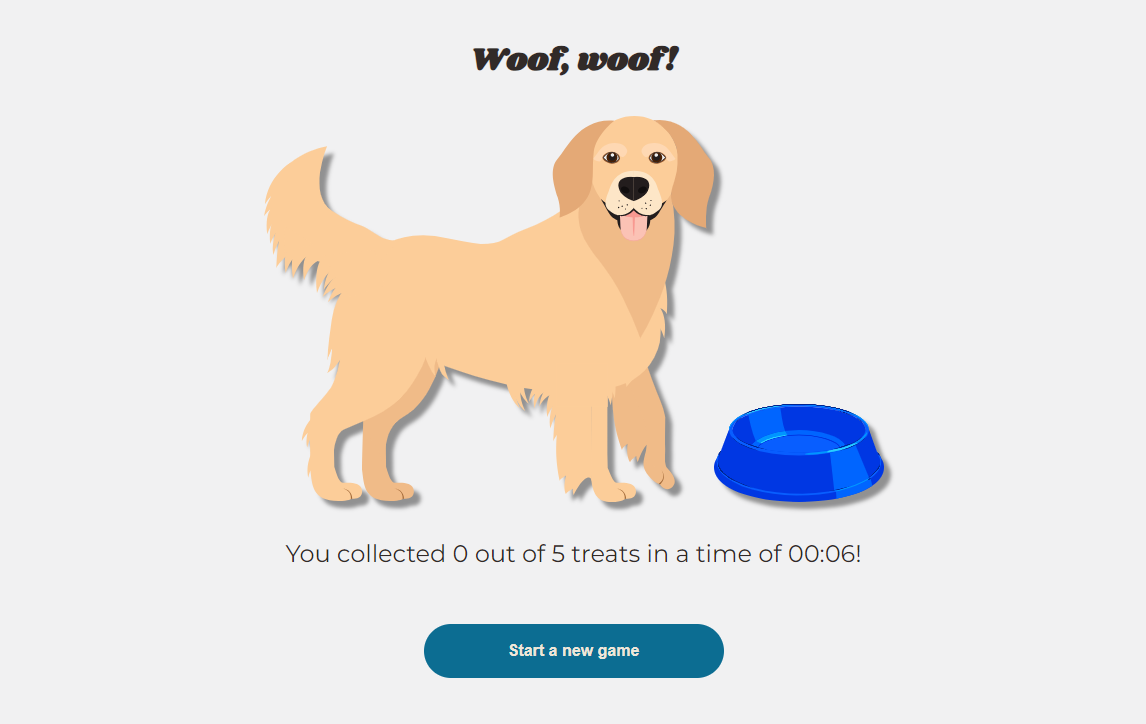
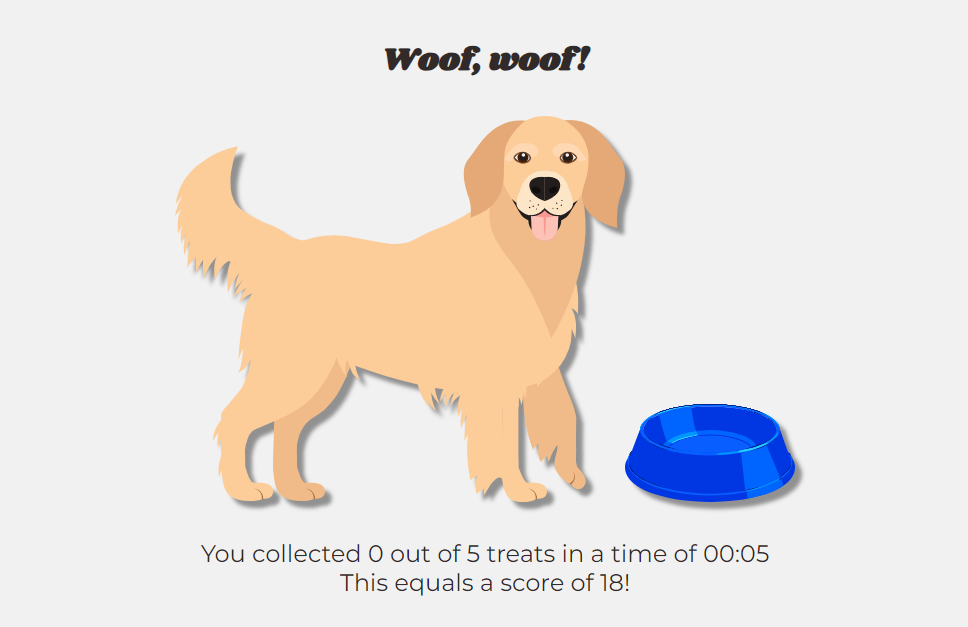
doc: update congratulations modal section in readme

Changed region(s): [[0.186, 0.1515, 0.8368, 0.8182], [0.2169, 0.8485, 0.8058, 0.9394], [0.4029, 0.0606, 0.6198, 0.1212]]

diff --git a/README.md b/README.md
@@ -130,13 +130,13 @@ One of the goals of this game is to make it customizable. That is why the user h
 
 ![Desktop start game modal](docs/screenshots/start_game_desktop.png)
 
-The mazes for bigger-sized screens are horizontal. However, for the mobile version of this game, I added a vertical maze to make better use of the available screen. When the screen size is smaller than 600px, only the mobile option is selectable.
+The mazes for bigger-sized screens are horizontal. However, for the mobile version of this game, I added a vertical maze to make better use of the available screen size. When the screen size is smaller than 600px, only the mobile option is selectable.
 
 ![Mobile start game modal](docs/screenshots/start_game_mobile.png)
 
 ### **Maze**
 
-After looking at different ways of creating a maze in JavaScript, I decided to use the [Playable Maze Game Generator](https://www.the-art-of-web.com/javascript/playable-maze-generator/) as my main resource. I had a look at how to implement a randomly generated maze from many different resources. But this seemed like the best option to me and I liked being able to just use the *MazeBuilder* class to build my maze and carry on doing the other things myself. So I used the *maze-builder.js* file and adapted it to the needs of my maze. There were many functions in the tutorial that I did not need so I deleted them.
+After looking at different ways of creating a maze in JavaScript, I decided to use the [Playable Maze Game Generator](https://www.the-art-of-web.com/javascript/playable-maze-generator/) as my main resource. I had a look at how to implement a randomly generated maze from many different resources. But this seemed like the best option to me and I liked being able to just use the necessary functions from the *MazeBuilder* class to build my maze and carry on doing the other things myself. So I used the [maze-builder.js](https://www.the-art-of-web.com/maze-builder.js) file and adapted it to the needs of my maze. There were many functions in the tutorial that I did not need so I deleted them.
 
 In terms of styling, I decided to keep it simple with a white background and dark-brown walls as the colorful treats and the dog character make the maze busy enough. To indicate the exit of the maze, a bag of treats is placed above the opening.
 
@@ -144,7 +144,7 @@ If sound effects are turned on, there is an audio of a dog panting playing while
 
 ![Desktop maze](docs/screenshots/maze_start.png)
 
-While navigating through the maze, the image of the dog character is flipped so the dog´s head faces the right direction. Under the maze, the number of collected treats as well as a timer are displayed. In the [Wireframes](#wireframes) section, I described that I would use control buttons for the mobile version of the game. However, I decided to display the arrow controls for all screen sizes. That is because there is no way for me to know whether the user has a keyboard or not, as a tablet might be the same size as a smaller laptop.
+While navigating through the maze, the image of the dog character is flipped so the dog´s head faces the correct direction. Under the maze, the number of collected treats as well as a timer are displayed. In the [Wireframes](#wireframes) section of this readme, I described that I would use control buttons for the mobile version of the game. However, I decided to display the arrow controls for all screen sizes. That is because there is no way for me to know whether the user has a keyboard or not, as a tablet might be the same size as a smaller laptop.
 
 ![Desktop maze](docs/screenshots/maze_playing.png)
 
@@ -171,6 +171,12 @@ If the user collected more than half of the available treats, the bowl is full.
 And if the user collected all of the available treats, the bowl is full and overflowing with food.
 
 ![Congratulations modal bowl half full](docs/screenshots/congratulations_extra_full.png)
+
+A score is calculated based on the number of treats, the time and the selected difficulty of the maze. The number of treats has the highest weight on the calculation. The highscore table is displayed at the bottom of the modal. The table holds up to 10 entries, always showing the 10 best attempts. The table row with the current attempt is highlighted. The highscore can be reset.
+
+![Congratulations modal bowl half full](docs/screenshots/congratulations_highscore.png)
+
+If the user decides to start a new game, the menu opens and the values for the number of collected treats and time are reset. Only the decision that was made for the sound effects stays the same as in the last game.
 
 ### **Custom 404 Page**
 
